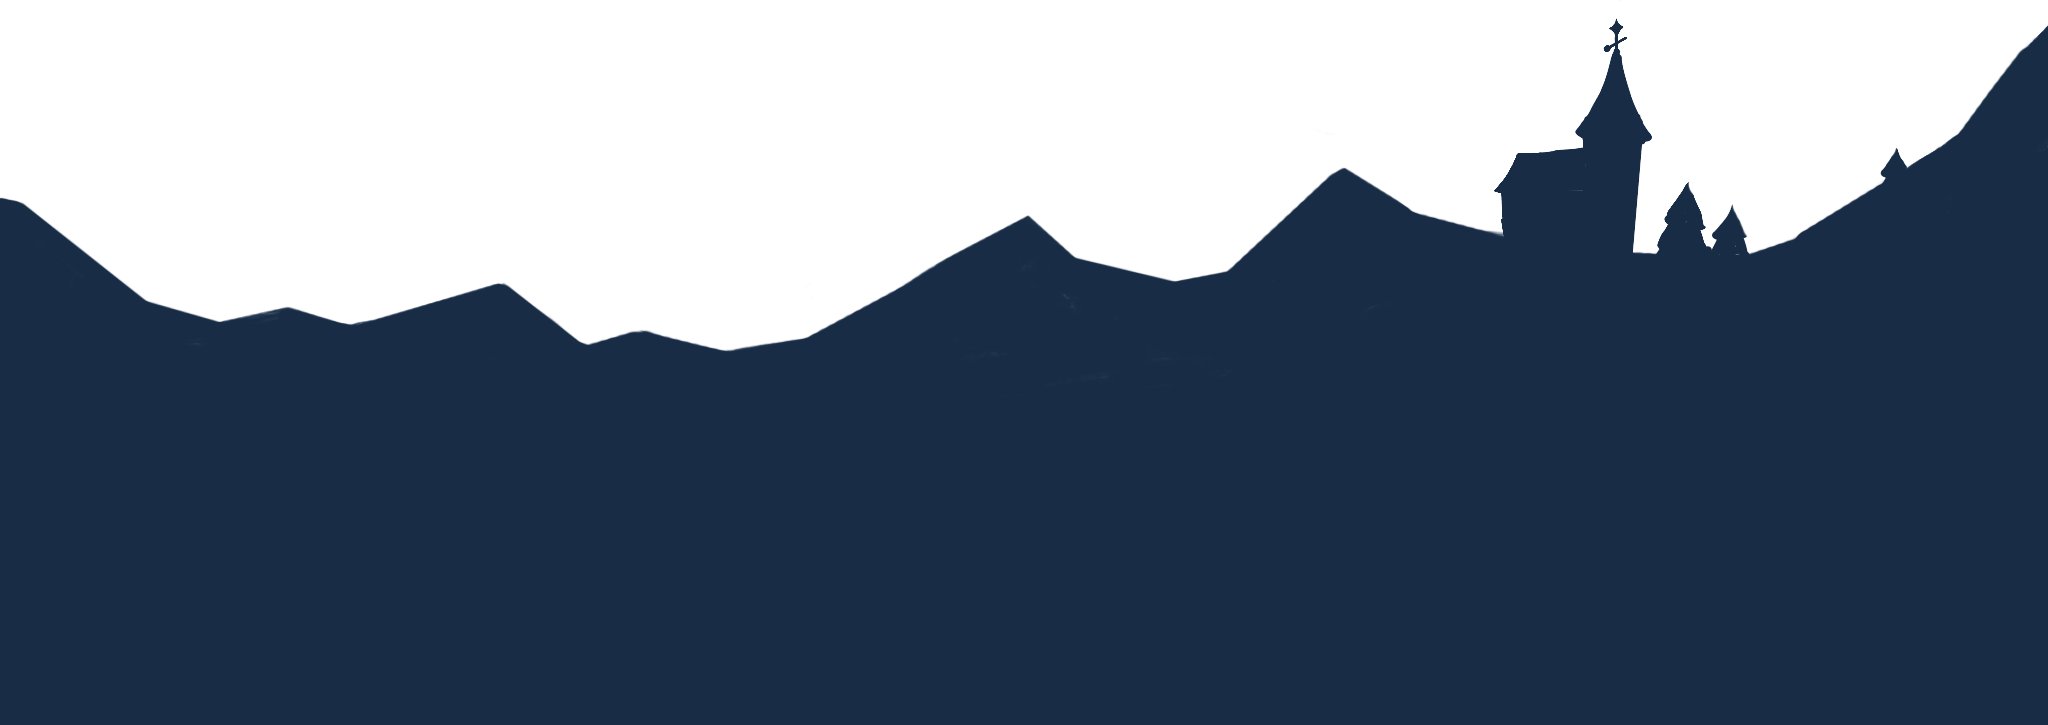
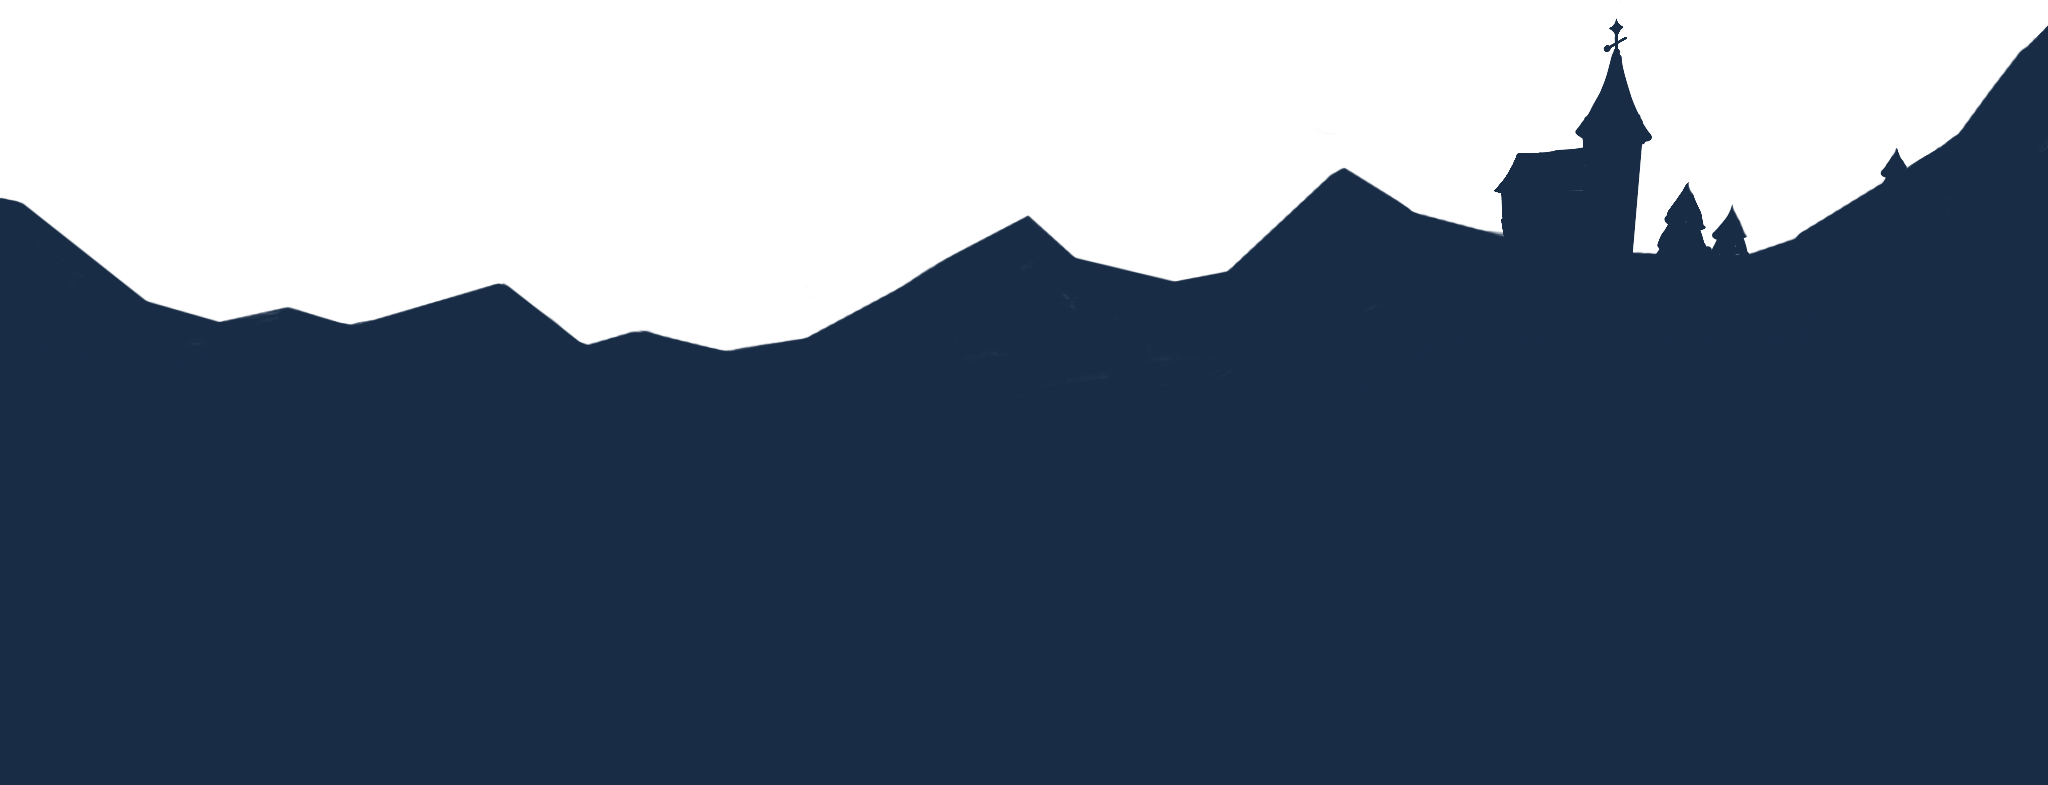
Added more parallax goodness

diff --git a/index.css b/index.css
@@ -64,36 +64,64 @@ section {
 header {
   background-image: url("images/background.png");
   background-repeat: repeat-x;
-  background-size: cover;
+  background-position: bottom center;
+  background-size: 100vw auto;
 
-  height: 1100px;
+  background-color: #543a54;
+
+  height: 100vh;
   overflow: hidden;
   position: relative;
   z-index: -4;
 }
 
-.layer {
+.layer, #layer-foreground {
   background-position: bottom center;
-  background-size: auto;
   background-repeat: no-repeat;
   width: 100%;
-  height: 1100px;
+  height: 100vh;
+}
+
+.layer {
+  background-size: auto;
   position: fixed;
 }
 
 #layer-foreground {
+  background-size: 100vw auto;
+
   background-image: url("images/Foreground.png");
   z-index: -1;
+  position: absolute;
 }
 
 #layer-harper {
   background-image: url("images/Harper.png");
+  background-size: 180px auto;
   z-index: -2;
 }
 
 #layer-mountain {
   background-image: url("images/Mountain.png");
+  background-size: 100vw auto;
   z-index: -3;
+}
+
+#layer-logo {
+  background-image: url("images/LunariaLogo.png");
+  background-position: center 10%;
+  background-size: auto;
+  z-index: 1;
+
+  animation-name: fade-in;
+  animation-duration: 1s;
+}
+
+#layer-moon {
+  background-image: url("images/moon.png");
+  background-size: 250px auto;
+  background-position: 95% 10%;
+  z-index: -5;
 }
 
 header p {
@@ -153,35 +181,8 @@ a:visited {
   background-color: #3c8aff;
 }
 
-/*About section*/
-#bio {
-  /*
-    To get the horizontal layout
-  */
-  display: flex;
-  justify-content: space-between;
-}
-
-.bioItem {
-  background-color: #e5f5f6;
-  border-radius: 10px;
-  margin: 5% 1%;
-  padding: 2.5%;
-  width: 30%;
-}
-
-.bioItem h2 {
-  color: #182c46;
-  font-size: 2em;
-}
-
-.bioItem li {
-  color: #182c46;
-  font-size: 1.5em;
-}
-
 /*Project section*/
-.project {
+section > div {
   background-color: #e5f5f6;
   border-radius: 10px;
   list-style-type: none;
@@ -189,26 +190,28 @@ a:visited {
   padding: 2%;
 }
 
-.project h2 {
+section > div h2 {
   color: #182c46;
   font-size: 2.5em;
   padding: 0 0;
 }
 
-.project p {
+section > div p {
   color: #182c46;
   font-size: 1.5em;
 }
 
-/*Image styling*/
-#moon {
-  float: right;
-  position: relative;
-  width: 25%;
-  left: -50px;
-  bottom: 450px;
-}
+/* Animation */
 
-#moon404 {
-  height: 150px;
+@keyframes fade-in {
+  from
+  {
+    transform: translateY(10px);
+    opacity: 0;
+  }
+  to
+  {
+    transform: none;
+    opacity: 1;
+  }
 }

diff --git a/index.html b/index.html
@@ -19,53 +19,36 @@
   <title>Lunaria</title>
   <script src="index.js"></script>
   <link href="index.css" rel="stylesheet">
+
+  <link rel="apple-touch-icon" sizes="180x180" href="icon/apple-touch-icon.png">
+  <link rel="icon" type="image/png" sizes="32x32" href="icon/favicon-32x32.png">
+  <link rel="icon" type="image/png" sizes="16x16" href="icon/favicon-16x16.png">
+  <link rel="manifest" href="icon/site.webmanifest">
+  <link rel="mask-icon" href="icon/safari-pinned-tab.svg" color="#5bbad5">
+  <meta name="theme-color" content="#ffffff">
 </head>
 
 <body>
 
   <!--Header-->
   <header>
-    <!--<img src="images/LunariaLogo.png" alt="Lunaria"></img>-->
-    <div class="layer" id="layer-foreground" data-scroll="0.95"></div>
+    <div id="layer-foreground" data-scroll="0.95"></div>
     <div class="layer" id="layer-harper" data-scroll="0.6"></div>
     <div class="layer" id="layer-mountain" data-scroll="0.8"></div>
-
-    <img src="images/moon.png" alt="Moon">
+    <div class="layer" id="layer-logo" data-scroll="1"></div>
+    <div class="layer" id="layer-moon" data-scroll="1.2"></div>
   </header>
+
+  <div>
+  </div>
 
   <!--Main-->
   <main>
-    <!--Bio Section-->
+    <!--About Section-->
     <section>
-      <h2>A bit about me</h2>
-      <div id="bio">
-        <div class="bioItem">
-          <h2>Classes I'm taking</h2>
-          <ul>
-            <li>CSE 154 (Web Programming)</li>
-            <li>MATH 126 (Calculus III)</li>
-            <li>PHIL 100 (Intro to Philosophy)</li>
-          </ul>
-        </div>
-        <div class="bioItem">
-          <h2>Quick info</h2>
-          <ul>
-            <li>From Taiwan</li>
-            <li>Went to high school in Tacoma</li>
-            <li>Speaks Chinese, English, a bit of Japanese</li>
-            <li>Amateur Recorder Player</li>
-          </ul>
-        </div>
-        <div class="bioItem">
-          <h2>My Favorite Things</h2>
-          <ul>
-            <li>Favorite animal: Rabbit</li>
-            <li>Favorite food: Sushi</li>
-            <li>Favorite plant: <a href="https://en.wikipedia.org/wiki/Lunaria_annua" target="_blank">Silver Dollars</a></li>
-            <li>Favorite Pokemon: Crobat</li>
-            <li>Favorite video game: Super Mario Galaxy</li>
-          </ul>
-        </div>
+      <h2>About</h2>
+      <div>
+        <p>Quick info</p>
       </div>
     </section>
     <!--Project Section-->

diff --git a/index.js b/index.js
@@ -10,7 +10,6 @@
   function handleScroll() {
     let topDistance = window.scrollY;
     let layers = qsa(".layer");
-    console.log(layers);
     for(let i = 0; i < layers.length; i++) {
       let scroll = layers[i].getAttribute("data-scroll");
       let movement = -(topDistance * scroll);
@@ -21,6 +20,10 @@
 
   function qsa(query) {
     return document.querySelectorAll(query);
+  }
+
+  function $(id) {
+    return document.getElementById(id);
   }
 
 })();
